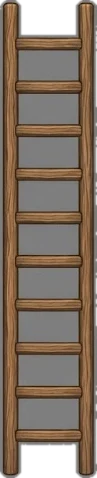
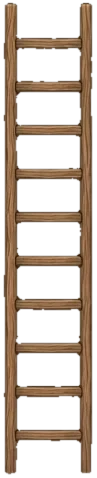
Serpents : échelles découpées sans fond gris
Claude-Session: https://claude.ai/code/session_01UTaypXBnC3UMfvWUL5q9hs

diff --git a/index.html b/index.html
@@ -111,7 +111,7 @@ a.g .tag{position:absolute;right:5px;top:5px;font-size:11px;font-weight:800;back
 </script>
 <script>
 (function(){
-  const VERSION='n°181 · 28/10 19:42';
+  const VERSION='n°182 · 28/10 19:54';
   const ver=document.getElementById('ver'),upd=document.getElementById('upd');
   ver.textContent='Version '+VERSION;
   document.querySelectorAll('a.g').forEach(x=>{const h=x.getAttribute('href');if(h&&!h.includes('?'))x.setAttribute('href',h+'?v='+encodeURIComponent(VERSION));const im=x.querySelector('img');if(im)im.src=im.getAttribute('src')+'?v='+encodeURIComponent(VERSION);x.addEventListener('click',()=>{try{localStorage.setItem('hub-last',x.dataset.n+'|'+x.getAttribute('href')+'|'+im.getAttribute('src'));}catch(e){}});});
